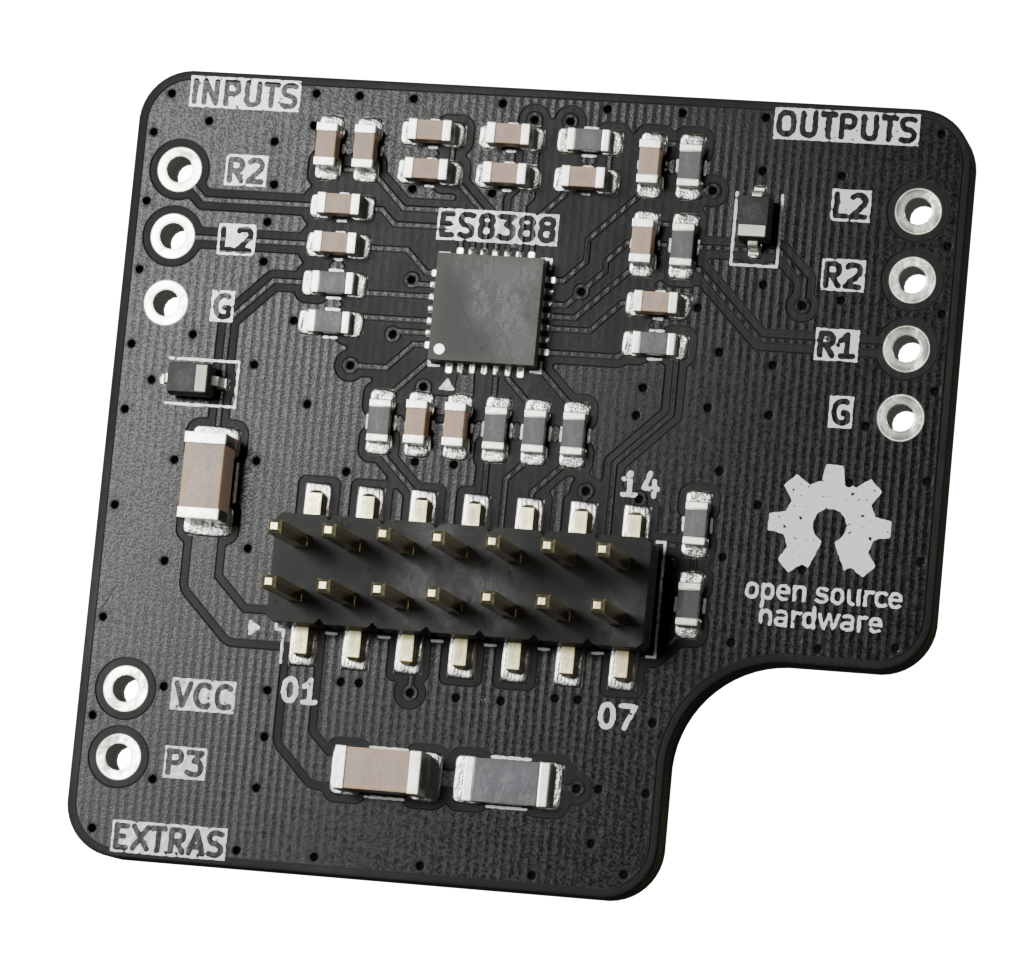
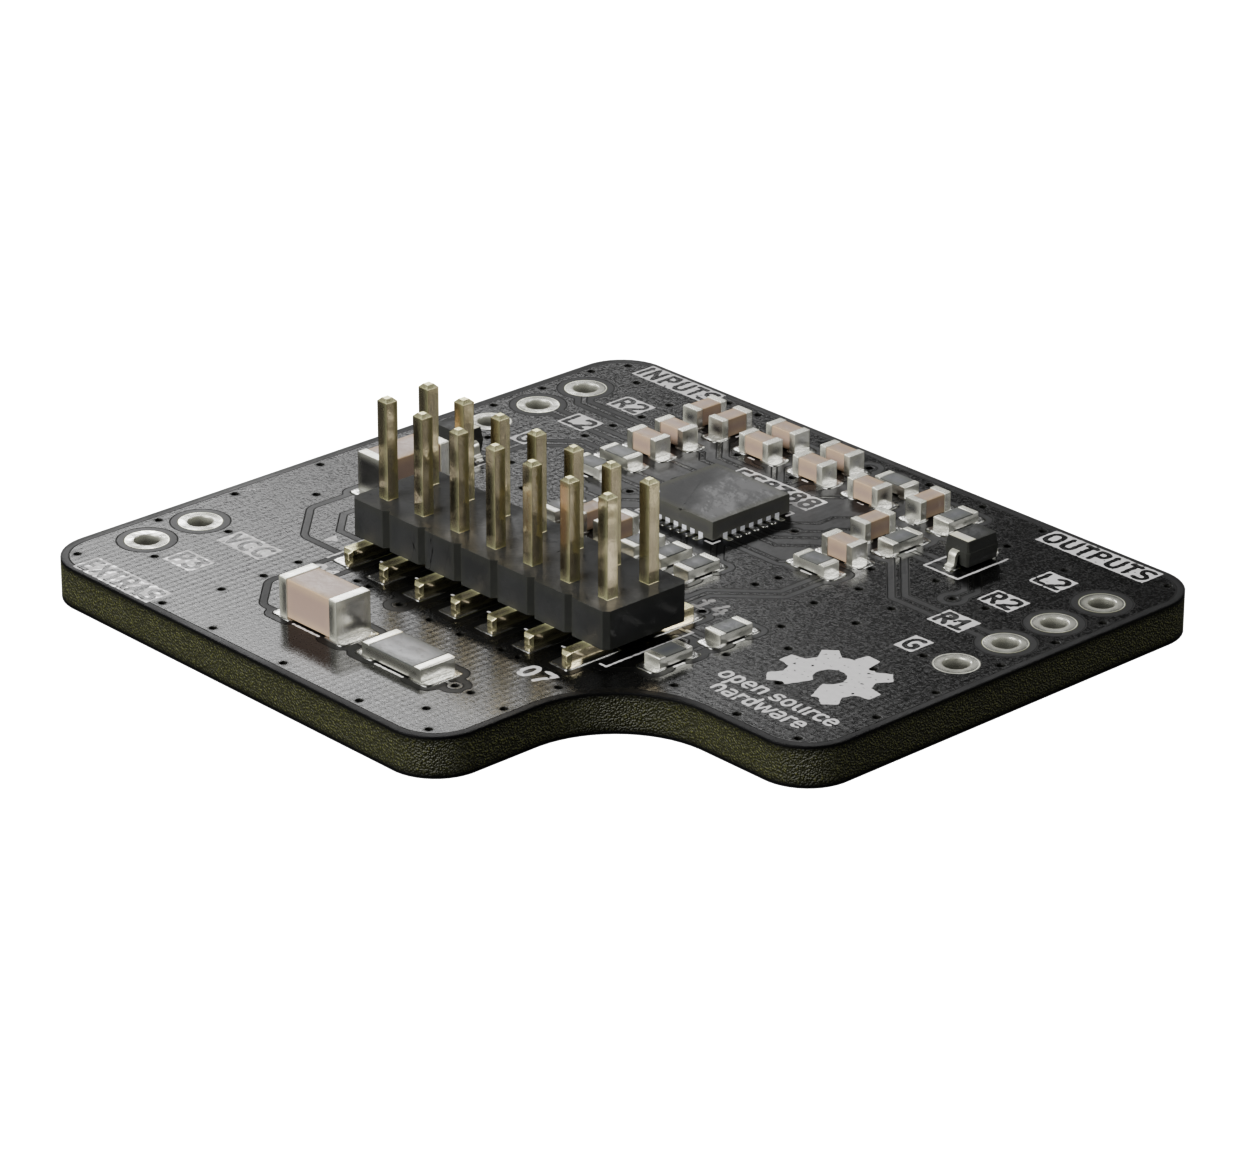
WIP

diff --git a/docs/components.d.ts b/docs/components.d.ts
@@ -8,6 +8,10 @@ export {}
 declare module 'vue' {
   export interface GlobalComponents {
     ContactModal: typeof import('./.vitepress/theme/components/ContactModal.vue')['default']
+    IconIcRoundOtherHouses: typeof import('~icons/ic/round-other-houses')['default']
+    IconLineMdUploadingLoop: typeof import('~icons/line-md/uploading-loop')['default']
+    IconMdiPackageVariantPlus: typeof import('~icons/mdi/package-variant-plus')['default']
+    IconPhCpuBold: typeof import('~icons/ph/cpu-bold')['default']
     ModelViewer: typeof import('./.vitepress/theme/components/ModelViewer.vue')['default']
     STLLoader: typeof import('./.vitepress/theme/components/STLLoader.vue')['default']
   }

diff --git a/docs/en/order.md b/docs/en/order.md
@@ -131,7 +131,7 @@ export default {
                 {
                     key: 'pcb_extension_audio',
                     name: 'Audio Extension',
-                    image: '/audio-extension2.png',
+                    image: '/audio-extension.png',
                     details: 'Audio Extension for upgrading your Doorman. <i>*Requires Base Board revision 2.0.0 or newer.</i>',
                     price: 0
                 },
@@ -143,7 +143,7 @@ export default {
                     price: 0
                 },
                 {
-                    key: 'pcb_extension_audio_combo',
+                    key: 'bundle_core',
                     name: 'Core Bundle',
                     image: '/base-board-audio-extension.png',
                     details: 'Base Board with Audio Extension. Ideal for built-in installations without a visible enclosure.',

diff --git a/docs/en/changelog/firmware.md b/docs/en/changelog/firmware.md
@@ -198,7 +198,7 @@ This release **will impact your current setup** and **requires** you to go throu
    The setup mode now attempts to automatically identify the indoor station model. However, this process is not compatible with all models, as some do not support automatic detection.
 
 - **Introduced a button to identify your indoor station model**  
-   You can now effortlessly determine the correct model for your settings by simply pressing the "Identify Indoor Station" button, perfect for cases where you're unsure which model you own.
+   You can now effortlessly determine the correct model for your settings by simply pressing the "Identify" button, perfect for cases where you're unsure which model you own.
 
 - **Expand Support for Model Settings**  
    Implemented settings compatibility for TCS TASTA (Koch TC60) IVW5xxx and ISW5xxx models.

diff --git a/docs/en/guide/features/intercom-settings.md b/docs/en/guide/features/intercom-settings.md
@@ -6,7 +6,7 @@ description: Customize your Indoor Station, including ringtones, volume, and oth
 
 With Doorman, you can fine-tune your indoor station to suit your environment and preferences. Whether it's customizing ringtones for different types of calls or adjusting volume levels, Doorman provides a powerful yet simple way to personalize your intercom experience.
 
-Settings are automatically made available once your device has been successfully identified. In cases where automatic identification fails, you can trigger the process manually using the `Identify Indoor Station` button.
+Settings are automatically made available once your device has been successfully identified. In cases where automatic identification fails, you can trigger the process manually using the `Identify` button.
 
 ## Available Settings
 

diff --git a/docs/de/guide/features/intercom-settings.md b/docs/de/guide/features/intercom-settings.md
@@ -2,7 +2,7 @@
 
 Mit Doorman kannst du deine Innenstation ganz nach deinen Bedürfnissen und deiner Umgebung anpassen. Egal ob Klingeltöne für unterschiedliche Klingelarten oder die Feinabstimmung der Lautstärke – Doorman bietet eine einfache Möglichkeit, deine Innenstation zu personalisieren.
 
-Die Einstellungen werden automatisch verfügbar, sobald deine Innenstation erfolgreich erkannt wurde. Falls die automatische Erkennung fehlschlägt, kannst du den Vorgang manuell über die Schaltfläche `Identify Indoor Station` starten.
+Die Einstellungen werden automatisch verfügbar, sobald deine Innenstation erfolgreich erkannt wurde. Falls die automatische Erkennung fehlschlägt, kannst du den Vorgang manuell über die Schaltfläche `Identify` starten.
 
 ## Verfügbare Einstellungen
 

diff --git a/README.md b/README.md
@@ -3,7 +3,7 @@
     Doorman S3
     <br>
     <br>
-    <img src=".github/images/enclosure.png" alt="Doorman S3" height="275">
+    <img src="./docs/public/enclosure-base-board.png" alt="Doorman S3" height="275">
     <br>
 </h1>
 
@@ -170,3 +170,6 @@ Thank you so much for your time, patience, expertise, and every piece of invalua
 
 **[calibanorg](https://github.com/calibanorg)**\
 Thank you so much for your support, both in terms of encouragement and financial assistance, in the development of Doorman.
+
+**[mikreocontroller.net](http://mikrocontroller.net/topic/308271)**\
+Thanks to the folks at mikrocontroller.net for figuring out the Siedle In-Home-Bus.

diff --git a/docs/en/guide/hardware/audio-extension.md b/docs/en/guide/hardware/audio-extension.md
@@ -13,7 +13,7 @@ The board is built around the [ES8388](http://www.everest-semi.com/pdf/ES8388%20
 
    </div>
    <div style="min-width: 185px;max-width:200px;flex: 1 1 185px;" markdown>
-        <img style="" src="/audio-extension-pcb.png">
+        <img style="" src="/audio-extension-alt.png">
    </div>
 </div>
 

diff --git a/docs/de/guide/what-is-doorman.md b/docs/de/guide/what-is-doorman.md
@@ -14,7 +14,7 @@ Alternativ kannst du den Spannungspegel auf älteren Gegensprechanlagen (14-24V 
 
    </div>
    <div style="min-width: 185px;max-width:200px;flex: 1 1 185px;" markdown>
-        <img style="" src="/enclosure.png">
+        <img style="" src="/enclosure-base-board.png">
    </div>
 </div>
 

diff --git a/docs/en/guide/what-is-doorman.md b/docs/en/guide/what-is-doorman.md
@@ -20,7 +20,7 @@ You can also monitor the voltage level on older intercoms (14-24V DC) using the 
 
    </div>
    <div style="min-width: 185px;max-width:200px;flex: 1 1 185px;" markdown>
-        <img style="" src="/enclosure.png">
+        <img style="" src="/enclosure-base-board.png">
    </div>
 </div>
 

diff --git a/enclosure/README.md b/enclosure/README.md
@@ -2,4 +2,4 @@
 
 This directory contains all the STL Files to be able to print your own enclosure.
 
-<img src="../docs/public/enclosure.png" alt="Doorman S3" height="275">
+<img src="../docs/public/enclosure-only.png" alt="Doorman S3" height="275">

diff --git a/docs/de/index.md b/docs/de/index.md
@@ -8,7 +8,7 @@ hero:
   text: Gateway für TCS und Koch intercoms
   tagline: Für ESPHome und Home Assistant gemacht
   image:
-    src: /enclosure.png
+    src: /enclosure-base-board.png
     alt: Doorman
   actions:
     - theme: brand

diff --git a/docs/en/index.md b/docs/en/index.md
@@ -8,7 +8,7 @@ hero:
   text: Gateway for TCS and Koch intercoms
   tagline: Made for ESPHome and Home Assistant
   image:
-    src: /enclosure.png
+    src: /enclosure-base-board.png
     alt: Doorman
   actions:
     - theme: brand
